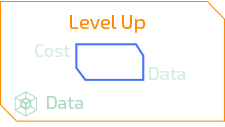
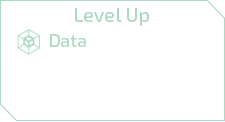
Update barracks

Changed region(s): [[0.0, 0.0, 1.0, 1.0], [0.0622, 0.2459, 0.84, 0.6393], [0.3111, 0.0738, 0.6844, 0.2705]]

diff --git a/game/src/barracks.cpp b/game/src/barracks.cpp
@@ -26,6 +26,26 @@ Barracks::Barracks(const string& next)
     button->set_sprites(1);
     m_buttons[button->id()] = button;
 
+    button = new Button(this, "levelup_m", path + "levelup-m.png", (409/W) * env->canvas->w(),
+        (390/H) * env->canvas->h(), 60, 40);
+    button->set_sprites(3);
+    m_buttons[button->id()] = button;
+
+    button = new Button(this, "levelup_p", path + "levelup-p.png", (485/W) * env->canvas->w(),
+        (390/H) * env->canvas->h(), 60, 40);
+    button->set_sprites(3);
+    m_buttons[button->id()] = button;
+
+    button = new Button(this, "levelup_t", path + "levelup-t.png", (560/W) * env->canvas->w(),
+        (390/H) * env->canvas->h(), 60, 40);
+    button->set_sprites(3);    
+    m_buttons[button->id()] = button;
+
+    button = new Button(this, "equip_shelf", path + "equip_shelf.png", (690/W) * env->canvas->w(),
+        (322/H) * env->canvas->h(), 255, 122);
+    button->set_sprites(3);    
+    m_buttons[button->id()] = button;
+
     button = new Button(this, "back", "", (912/W) * env->canvas->w(),
         (55/H) * env->canvas->h());
     button->set_text("BACK  X", Color(160, 7, 7));
@@ -48,11 +68,10 @@ Barracks::Barracks(const string& next)
     m_textures["military"] = env->resources_manager->get_texture(path + "military.png");
     m_textures["psionic"] = env->resources_manager->get_texture(path + "psionic.png");
     m_textures["tech"] = env->resources_manager->get_texture(path + "tech.png");
-    m_textures["equip"] = env->resources_manager->get_texture(path + "equip_shelf.png");
     m_textures["rifle"] = env->resources_manager->get_texture(path + "rifle.png");
     m_textures["armor"] = env->resources_manager->get_texture(path + "armor.png");
     m_textures["shield"] = env->resources_manager->get_texture(path + "shield.png");
-    m_textures["equip_change"] = env->resources_manager->get_texture(path + "equip_change.png");
+    m_textures["isaac_skills"] = env->resources_manager->get_texture(path + "isaac_skills.png");
 
     load_characters();
 }
@@ -63,7 +82,12 @@ Barracks::draw_self()
     Environment *env = Environment::get_instance();
     env->canvas->clear();
 
-    env->canvas->draw(m_textures["card_big"].get(), (112 / W) * env->canvas->w(), (130 / H) * env->canvas->h());
+    shared_ptr<Font> font = env->resources_manager->get_font("res/fonts/exo-2/Exo2.0-Regular.otf");
+    env->canvas->set_font(font);
+    font->set_size(16);
+
+    env->canvas->draw("Inspect Hero", (52 / W) * env->canvas->w(), (52 / H) * env->canvas->h(), Color(84, 107, 95));
+
     env->canvas->draw(m_textures["bracket"].get(), (30 / W) * env->canvas->w(), (25 / H) * env->canvas->h());
 
     int y = (470 / H) * env->canvas->h();
@@ -76,17 +100,15 @@ Barracks::draw_self()
     env->canvas->draw(m_textures["psionic"].get(), (420 / W) * env->canvas->w(), y);
     env->canvas->draw(m_textures["tech"].get(), (710 / W) * env->canvas->w(), y);
 
-    y = (128 / H) * env->canvas->h();
+    y = (87 / H) * env->canvas->h();
     env->canvas->draw(m_textures["attributes"].get(), (402 / W) * env->canvas->w(), y);
     env->canvas->draw(m_textures["stats"].get(), (690 / W) * env->canvas->w(), y);
     env->canvas->draw(m_textures["levelup"].get(), (402 / W) * env->canvas->w(), (322 / H) * env->canvas->h());
 
     env->canvas->draw(m_textures["equip"].get(), (690 / W) * env->canvas->w(), (322 / H) * env->canvas->h());
-    env->canvas->draw(m_textures["rifle"].get(), (690 / W) * env->canvas->w(), (360 / H) * env->canvas->h());
+    env->canvas->draw(m_textures["rifle"].get(), (702 / W) * env->canvas->w(), (360 / H) * env->canvas->h());
     env->canvas->draw(m_textures["armor"].get(), (772 / W) * env->canvas->w(), (360 / H) * env->canvas->h());
-    env->canvas->draw(m_textures["shield"].get(), (855 / W) * env->canvas->w(), (360 / H) * env->canvas->h());
-    env->canvas->draw(m_textures["equip_change"].get(), (670 / W) * env->canvas->w(),
-        (353 / H) * env->canvas->h());
+    env->canvas->draw(m_textures["shield"].get(), (847 / W) * env->canvas->w(), (360 / H) * env->canvas->h());
 
     draw_character();
 
@@ -153,57 +175,58 @@ Barracks::draw_character()
     for (int i = 0; i < m_character; ++it, ++i) {}; // not work very well with other ++ operators
 
     Character *character = it->second;
-
     character->set_visible(true);
 
     Environment *env = Environment::get_instance();
     shared_ptr<Font> font = env->resources_manager->get_font("res/fonts/exo-2/Exo2.0-Regular.otf");
     env->canvas->set_font(font);
-    font->set_size(32);
     Color color(170, 215, 190);
     
-    env->canvas->draw(character->id(), (112 / W) * env->canvas->w(), (90 / H) * env->canvas->h(), color);
-
     font->set_size(14);
-    int x = (607 / W) * env->canvas->w();
-    env->canvas->draw(to_string(character->might()), x, (165 / H) * env->canvas->h(), color);
-    env->canvas->draw(to_string(character->mind()), x, (200 / H) * env->canvas->h(), color);
-    env->canvas->draw(to_string(character->perception()), x, (235 / H) * env->canvas->h(), color);
-    env->canvas->draw(to_string(character->agility()), x, (270 / H) * env->canvas->h(), color);
+    int x = (606 / W) * env->canvas->w();
+    env->canvas->draw(to_string(character->might()), x, (120 / H) * env->canvas->h(), color);
+    env->canvas->draw(to_string(character->mind()), x, (150 / H) * env->canvas->h(), color);
+    env->canvas->draw(to_string(character->agility()), x, (180 / H) * env->canvas->h(), color);
+    env->canvas->draw(to_string(character->willpower()), x, (210 / H) * env->canvas->h(), color);
+    env->canvas->draw(to_string(character->resilience()), x, (240 / H) * env->canvas->h(), color);
+    env->canvas->draw(to_string(character->perception()), x, (270 / H) * env->canvas->h(), color);
 
     font->set_size(12);
     x = (780 / W) * env->canvas->w();
-    env->canvas->draw(to_string(character->might_attack()), x, (165 / H) * env->canvas->h(), color);
-    env->canvas->draw(to_string(character->mind_attack()), x, (200 / H) * env->canvas->h(), color);
-    env->canvas->draw(to_string(character->cooldown()), x, (235 / H) * env->canvas->h(), color);
-    env->canvas->draw(to_string(character->defense()), x, (270 / H) * env->canvas->h(), color);
+    env->canvas->draw(to_string(character->might_attack()), x, (125 / H) * env->canvas->h(), color);
+    env->canvas->draw(to_string(character->mind_attack()), x, (172 / H) * env->canvas->h(), color);
+    env->canvas->draw(to_string(character->cooldown()), x, (219 / H) * env->canvas->h(), color);
+    env->canvas->draw(to_string(character->defense()), x, (266 / H) * env->canvas->h(), color);
 
     x = (900 / W) * env->canvas->w();
-    env->canvas->draw(to_string(character->might_armor()), x, (165 / H) * env->canvas->h(), color);
-    env->canvas->draw(to_string(character->mind_armor()), x, (200 / H) * env->canvas->h(), color);
-    env->canvas->draw(to_string(character->critical()), x, (235 / H) * env->canvas->h(), color);
-    env->canvas->draw(to_string(character->critical()), x, (270 / H) * env->canvas->h(), color);
+    env->canvas->draw(to_string(character->might_armor()), x, (125 / H) * env->canvas->h(), color);
+    env->canvas->draw(to_string(character->mind_armor()), x, (172 / H) * env->canvas->h(), color);
+    env->canvas->draw(to_string(character->critical()), x, (219 / H) * env->canvas->h(), color);
+    env->canvas->draw(to_string(character->critical()), x, (266 / H) * env->canvas->h(), color);
 
-    font->set_size(22);
-    env->canvas->draw(to_string(character->levelup()), (500/W) * env->canvas->w(),
-        (370/H) * env->canvas->h(), Color(62, 108, 236));
+    env->canvas->draw(m_textures["isaac_skills"].get(), (112 / W) * env->canvas->w(), (376 / H) * env->canvas->h());
 
     font->set_size(16);
     auto settings = env->resources_manager->get_settings("res/datas/colony.sav");
     int data = settings->read<int>("Colony", "data", 0);
     env->canvas->draw(to_string(data), (500/W) * env->canvas->w(),
-        (415/H) * env->canvas->h(), Color(170, 215, 190));
+        (353/H) * env->canvas->h(), Color(170, 215, 190));
+
 
     font->set_size(18);
     x = 112;
-    int y = 125;
+    int y = 87;
+    m_buttons["levelup_m"]->set_text(to_string(character->levelup_m()), Color(168, 145, 35));
+    m_buttons["levelup_p"]->set_text(to_string(character->levelup_p()), Color(166, 69, 151));
+    m_buttons["levelup_t"]->set_text(to_string(character->levelup_t()), Color(79, 194, 193));
+    env->canvas->draw(m_textures["card_big"].get(), (x / W) * env->canvas->w(), (y / H) * env->canvas->h());
     env->canvas->draw(character->id(), (x + 131)/W * env->canvas->w(), (y + 5)/H * env->canvas->h(), color);
     env->canvas->draw(to_string(character->military()), (x+186)/W * env->canvas->w(),
-        (y+43)/H * env->canvas->h(), Color(208, 179, 43));
+        (y + 38)/H * env->canvas->h(), Color(208, 179, 43));
     env->canvas->draw(to_string(character->psionic()), (x+186)/W * env->canvas->w(),
-        (y+75)/H * env->canvas->h(), Color(166, 69, 151));
+        (y + 70)/H * env->canvas->h(), Color(166, 69, 151));
     env->canvas->draw(to_string(character->tech()), (x+186)/W * env->canvas->w(),
-        (y+105)/H * env->canvas->h(), Color(78, 191, 190));
+        (y + 100)/H * env->canvas->h(), Color(78, 191, 190));
 
     font->set_size(14);
 
@@ -214,31 +237,31 @@ Barracks::draw_character()
 
     env->canvas->draw(to_string(character->shield()),
         (x + 159 + 7 * (3 - sf.size()))/W * env->canvas->w(),
-        (y + 166)/H * env->canvas->h(), Color::WHITE);
+        (y + 162)/H * env->canvas->h(), Color::WHITE);
 
     sprintf(buffer_length, "%d\n", character->life());
     sf = buffer_length;
     env->canvas->draw(to_string(character->life()),
         (x + 159 + 7 * (3 - sf.size()))/W * env->canvas->w(),
-        (y + 195)/H * env->canvas->h(), Color::WHITE);
+        (y + 191)/H * env->canvas->h(), Color::WHITE);
 
     sprintf(buffer_length, "%d\n", character->mp());
     sf = buffer_length;
     env->canvas->draw(to_string(character->mp()),
         (x + 159 + 7 * (3 - sf.size()))/W * env->canvas->w(),
-        (y + 225)/H * env->canvas->h(), Color::WHITE);
+        (y + 220)/H * env->canvas->h(), Color::WHITE);
 
-    env->canvas->draw("/", (x + 175)/W * env->canvas->w(), (y + 166)/H * env->canvas->h(), Color::WHITE);
-    env->canvas->draw("/", (x + 175)/W * env->canvas->w(), (y + 195)/H * env->canvas->h(), Color::WHITE);
-    env->canvas->draw("/", (x + 175)/W * env->canvas->w(), (y + 225)/H * env->canvas->h(), Color::WHITE);
+    env->canvas->draw("/", (x + 175)/W * env->canvas->w(), (y-5 + 166)/H * env->canvas->h(), Color::WHITE);
+    env->canvas->draw("/", (x + 175)/W * env->canvas->w(), (y-5 + 195)/H * env->canvas->h(), Color::WHITE);
+    env->canvas->draw("/", (x + 175)/W * env->canvas->w(), (y-5 + 225)/H * env->canvas->h(), Color::WHITE);
 
     font->set_size(10);
     env->canvas->draw(to_string(character->max_shield()), (x + 183)/W * env->canvas->w(),
-        (y + 170)/H * env->canvas->h(), Color::WHITE);
+        (y + 166)/H * env->canvas->h(), Color::WHITE);
     env->canvas->draw(to_string(character->max_life()), (x + 183)/W * env->canvas->w(),
-        (y + 199)/H * env->canvas->h(), Color::WHITE);
+        (y + 195)/H * env->canvas->h(), Color::WHITE);
     env->canvas->draw(to_string(character->max_mp()), (x + 183)/W * env->canvas->w(),
-        (y + 229)/H * env->canvas->h(), Color::WHITE);
+        (y + 225)/H * env->canvas->h(), Color::WHITE);
 }
 
 bool
@@ -277,7 +300,7 @@ Barracks::load_characters()
     Environment *env = Environment::get_instance();
     
     int x = (112 / W) * env->canvas->w();
-    int y = (130 / H) * env->canvas->h();
+    int y = (87 / H) * env->canvas->h();
     int w = (222 / W) * env->canvas->w();
     int h = (270 / H) * env->canvas->h();
 
@@ -288,9 +311,11 @@ Barracks::load_characters()
     {
         if (section.first != "Default")
         {
-            Character *character = new Character(this, section.first, "psionic_big.png",
+            Character *character = new Character(this, section.first, "test_big.png",
                 x, y, w, h, section.first);
             m_characters[character->id()] = character;
+
+
         }
     }
 

diff --git a/game/src/character.cpp b/game/src/character.cpp
@@ -38,7 +38,9 @@ Character::init()
     m_military = m_settings->read<int>(m_name, "military", 0);
     m_psionic = m_settings->read<int>(m_name, "psionic", 0);
     m_tech = m_settings->read<int>(m_name, "tech", 0);
-    m_levelup = m_settings->read<int>(m_name, "levelup", 0);
+    m_levelup_m = m_settings->read<int>(m_name, "levelup_m", 0);
+    m_levelup_p = m_settings->read<int>(m_name, "levelup_p", 0);
+    m_levelup_t = m_settings->read<int>(m_name, "levelup_t", 0);
     m_shield = m_settings->read<int>(m_name, "shield", 0);
     m_max_shield = m_settings->read<int>(m_name, "max_shield", 0);
     m_life = m_settings->read<int>(m_name, "life", 0);
@@ -139,9 +141,21 @@ Character::might() const
 }
 
 int
-Character::levelup() const
+Character::levelup_m() const
 {
-    return m_levelup;
+    return m_levelup_m;
+}
+
+int
+Character::levelup_p() const
+{
+    return m_levelup_p;
+}
+
+int
+Character::levelup_t() const
+{
+    return m_levelup_t;
 }
 
 int
@@ -280,10 +294,24 @@ Character::set_tech(int tech)
 }
 
 void
-Character::set_levelup(int levelup)
+Character::set_levelup_m(int levelup_m)
 {
-    m_levelup = levelup;
-    write<int>("levelup", levelup);
+    m_levelup_m = levelup_m;
+    write<int>("levelup_m", levelup_m);
+}
+
+void
+Character::set_levelup_p(int levelup_p)
+{
+    m_levelup_p = levelup_p;
+    write<int>("levelup_p", levelup_p);
+}
+
+void
+Character::set_levelup_t(int levelup_t)
+{
+    m_levelup_t = levelup_t;
+    write<int>("levelup_t", levelup_t);
 }
 
 void

diff --git a/game/include/character.h b/game/include/character.h
@@ -21,7 +21,9 @@ public:
     int military() const;
     int psionic() const;
     int tech() const;
-    int levelup() const;
+    int levelup_m() const;
+    int levelup_p() const;
+    int levelup_t() const;
     int shield() const;
     int max_shield() const;
     int life() const;
@@ -46,7 +48,9 @@ public:
     void set_military(int military);
     void set_psionic(int psionic);
     void set_tech(int tech);
-    void set_levelup(int levelup);
+    void set_levelup_m(int levelup);
+    void set_levelup_p(int levelup);
+    void set_levelup_t(int levelup);
     void set_shield(int shield);
     void set_max_shield(int max_shield);
     void set_life(int life);
@@ -77,7 +81,9 @@ private:
     int m_military;
     int m_psionic;
     int m_tech;
-    int m_levelup;
+    int m_levelup_m;
+    int m_levelup_p;
+    int m_levelup_t;
     int m_shield;
     int m_max_shield;
     int m_life;

diff --git a/game/src/babel.cpp b/game/src/babel.cpp
@@ -92,6 +92,7 @@ Babel::load_level(const string& id)
         return new Combat();
     }
     
+    return new Barracks();
     return load_frontend(id);
 }
 
